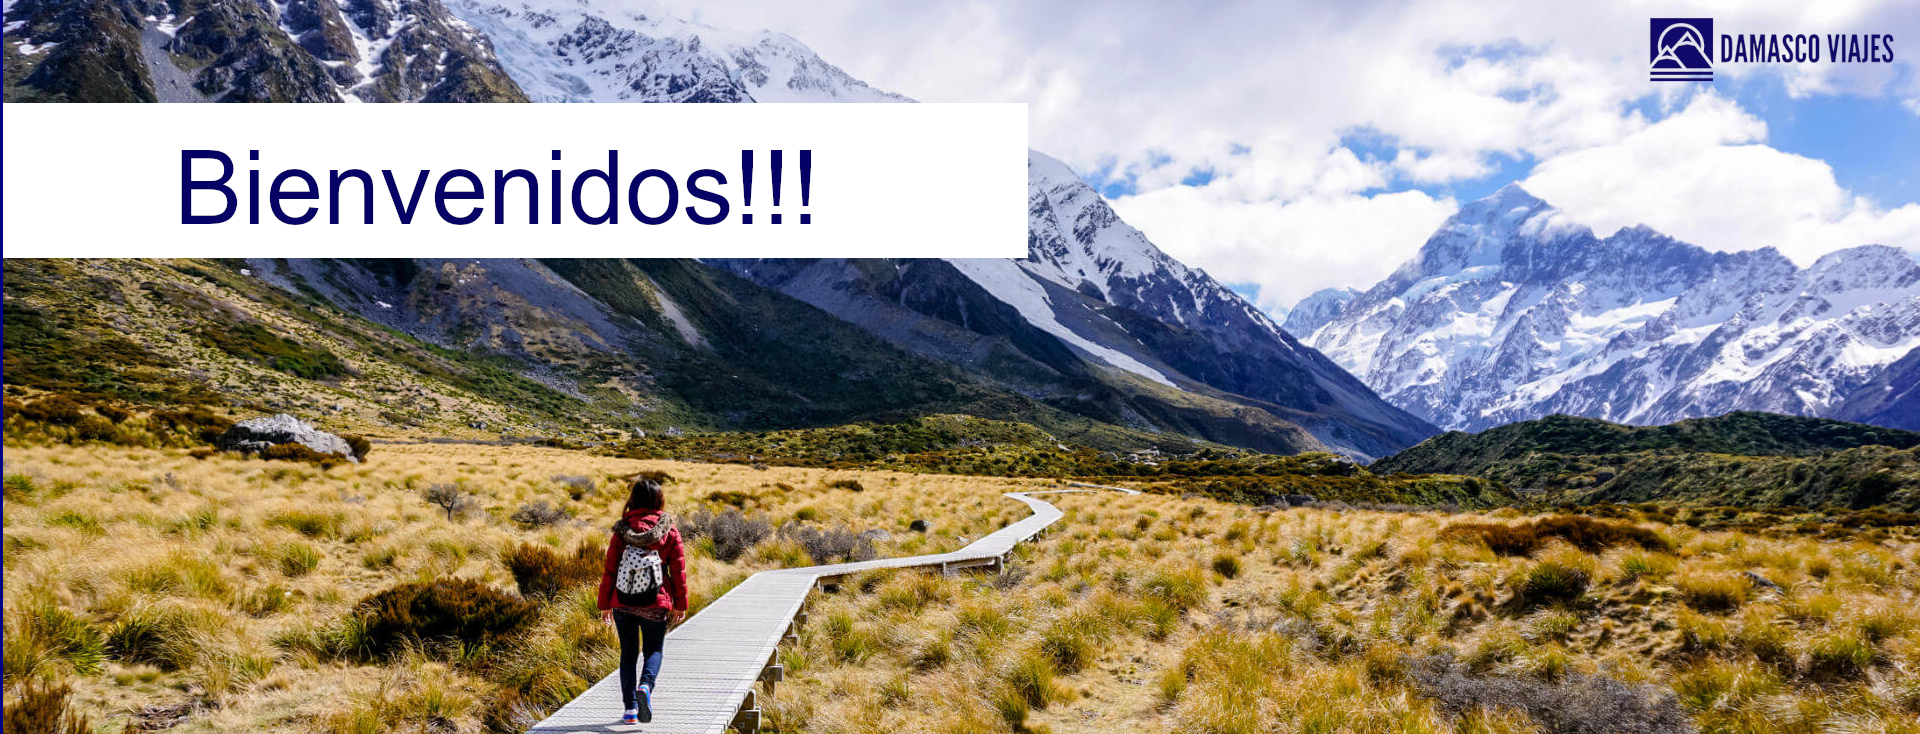
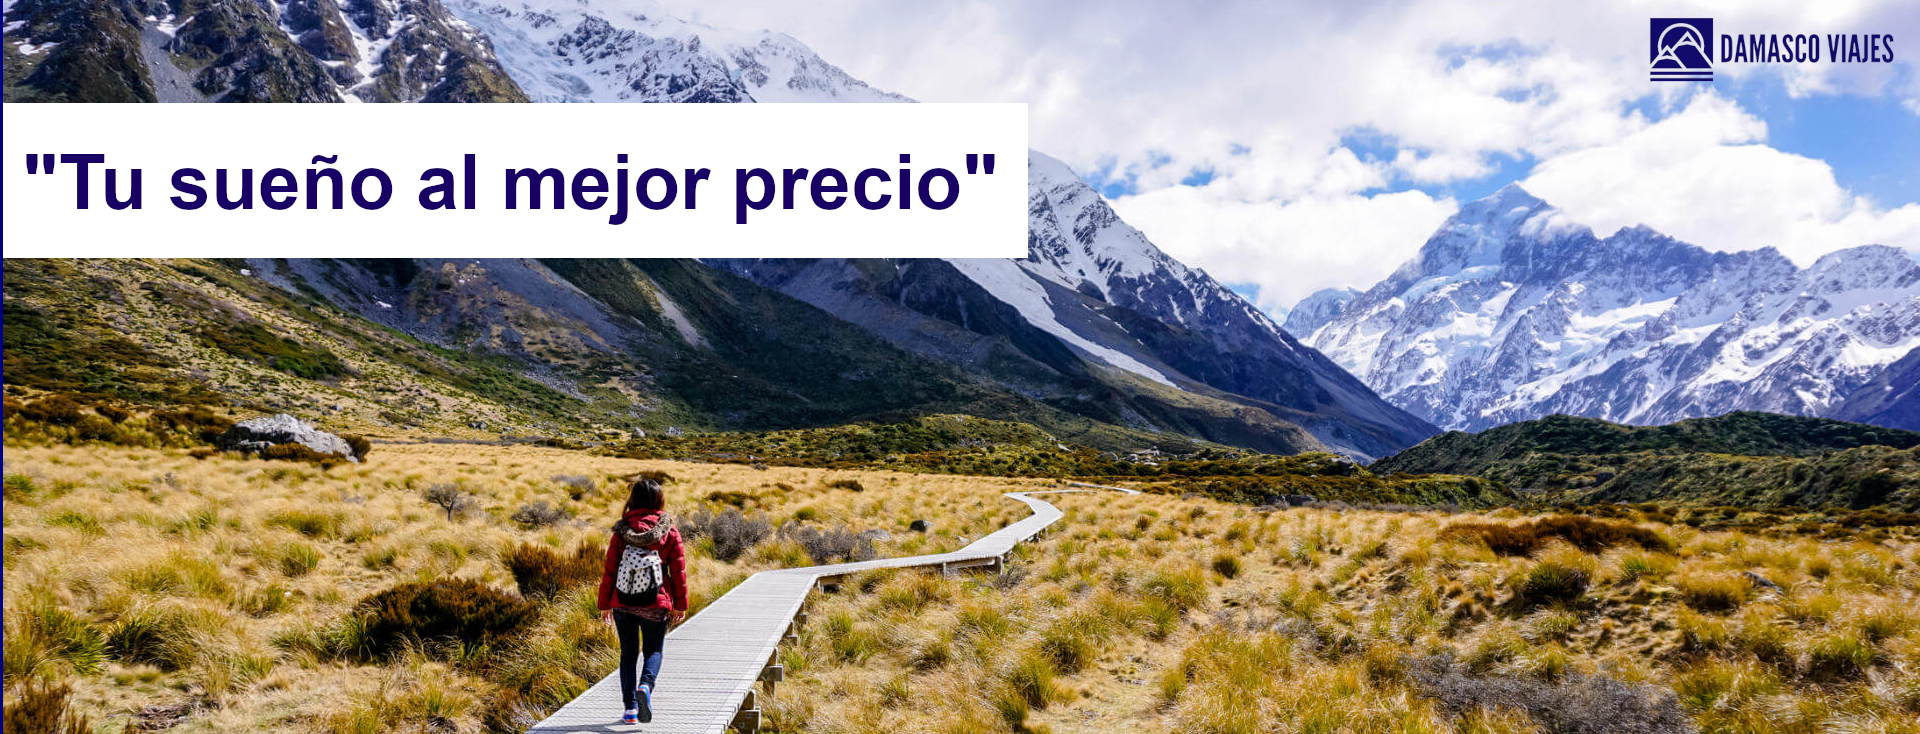
Cambios Inicio, aside añadido y eslogan

Changed region(s): [[0.0, 0.1798, 0.5312, 0.3297]]

diff --git a/css/estilo.css b/css/estilo.css
@@ -1,70 +1,75 @@
 /*Estilo General*/
-body{
-  margin: 50px;
-  font-family: Arial, Helvetica, sans-serif;
-  background-color: rgb(241, 239, 239);
-  font-size: large;
-}
-
-#barra{
-  list-style-type: none;
-  margin: 0;
-  padding: 0;
-  overflow: hidden;
-  background-color: rgb(0, 2, 100);
+  body{
+    margin: 50px;
+    font-family: Arial, Helvetica, sans-serif;
+    background-color: rgb(241, 239, 239);
+    font-size: large;
   }
 
-  li {
-    float: left;
-    margin: 10px;
-  }
-    
-  li a {
-    font-size: x-large;
-    display: block;
-    color: white;
-    text-align: center;
-    padding: 14px 16px;
-    text-decoration: none;
-  }
-    
-  li a:hover {
-    background-color: rgb(0, 2, 121);
-  }
+  #barra{
+    list-style-type: none;
+    margin: 0;
+    padding: 0;
+    overflow: hidden;
+    background-color: rgb(0, 2, 100);
+    }
+
+    li {
+      float: left;
+      margin: 10px;
+    }
+      
+    li a {
+      font-size: x-large;
+      display: block;
+      color: white;
+      text-align: center;
+      padding: 14px 16px;
+      text-decoration: none;
+    }
+      
+    li a:hover {
+      background-color: rgb(0, 2, 121);
+    }
 
 
 /*ESTILO DE LA PÁGINA DE INICIO*/
-#fotogrande{
-  height: 50%;
-  width: 100%;
-}
+  #fotogrande{
+    height: 50%;
+    width: 100%;
+  }
 
-#ofertas{
-  margin-top: 50px;
-}
+  #ofertas{
+    margin-top: 50px;
+  }
 
-#primerarticulo{
-  height: 350px;
-  width: 60%;
-  padding: 20px;
-  float: right;
-  color: rgb(0, 2, 100);
-}
+  #primerarticulo{
+    height: 350px;
+    width: 60%;
+    padding: 20px;
+    float: right;
+    color: rgb(0, 2, 100);
+  }
 
-#promo{
-  margin-left: 20px;
-  width: 33%;
-  height: 400px;
-  float: left;
-  border: rgb(0, 2, 100) 3px solid;
-}
+  #promo{
+    margin-left: 20px;
+    width: 33%;
+    height: 400px;
+    float: left;
+    border: rgb(0, 2, 100) 3px solid;
+  }
 
-#descuento{
-  font-size: x-large;
-  font-weight: bold;
-  text-decoration-line: underline;
-  color: #fbac5c;
-}
+  #descuento{
+    font-size: x-large;
+    font-weight: bold;
+    text-decoration-line: underline;
+    color: #fbac5c;
+  }
+
+    #aclaracion{
+      margin-top: 27%;
+      margin-left: 20px;
+    }
 
 
   
